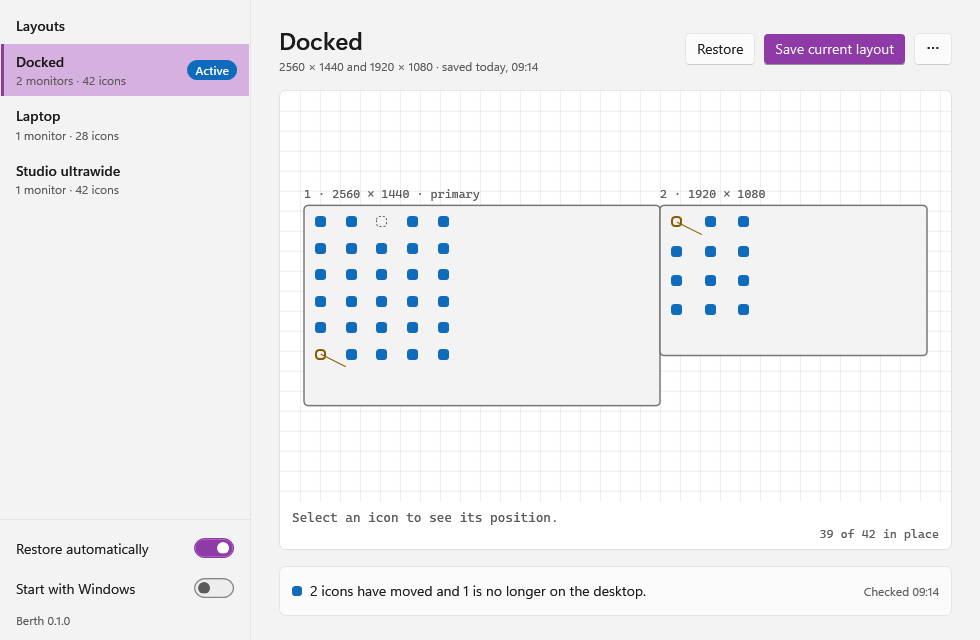
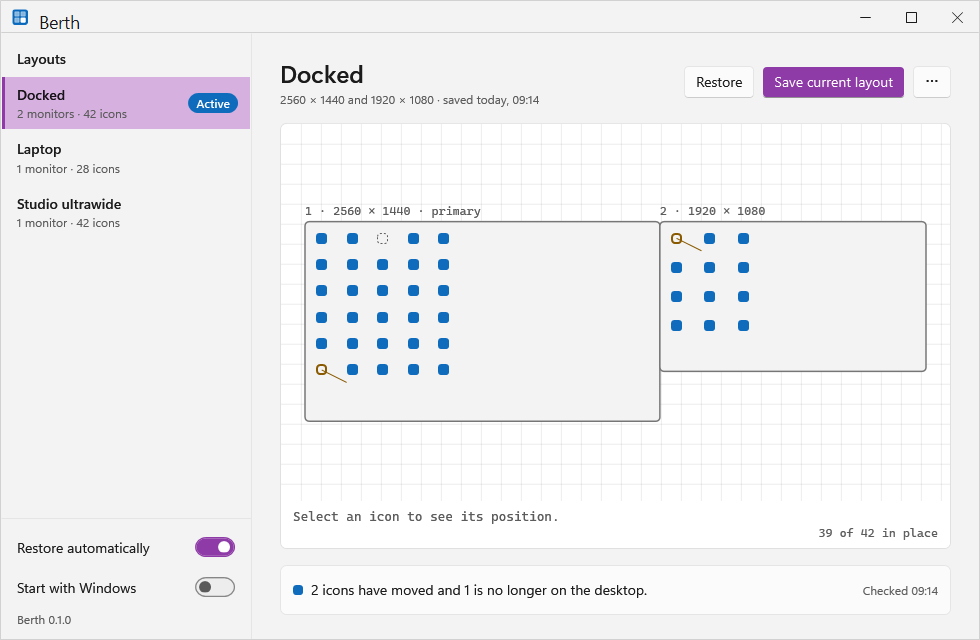
docs: frame README screenshots to 980x640 outer bounds with title bar and clarify command scope

diff --git a/tests/Berth.Tests/Release/DocsRenderTests.cs b/tests/Berth.Tests/Release/DocsRenderTests.cs
@@ -1,3 +1,7 @@
+using System.Drawing;
+using System.Drawing.Drawing2D;
+using System.Drawing.Imaging;
+using System.Drawing.Text;
 using System.Windows;
 using System.Windows.Media.Imaging;
 using Berth.Core;
@@ -15,6 +19,10 @@ namespace Berth.Tests.Release;
 [Trait("Category", "Docs")]
 public sealed class DocsRenderTests(AppFixture appFixture)
 {
+    private const int OuterWidth = 980;
+    private const int OuterHeight = 640;
+    private const int TitleBarHeight = 32;
+
     private static readonly MonitorInfo MonPrimary = new(0, 0, 2560, 1440, 100, true);
     private static readonly MonitorInfo MonSecondary = new(2560, 0, 1920, 1080, 100, false);
     private static readonly MonitorInfo MonLaptop = new(0, 0, 1920, 1080, 100, true);
@@ -98,18 +106,25 @@ public sealed class DocsRenderTests(AppFixture appFixture)
         string outputDir = ResolveOutputDirectory(data.Root);
         string lightPath = Path.Combine(outputDir, "main-window-light.png");
         string darkPath = Path.Combine(outputDir, "main-window-dark.png");
+        string clientTempDir = Path.Combine(data.Root, "client-renders");
+        Directory.CreateDirectory(clientTempDir);
+        string lightClientPath = Path.Combine(clientTempDir, "client-light.png");
+        string darkClientPath = Path.Combine(clientTempDir, "client-dark.png");
+
+        int clientWidth = OuterWidth - 2;
+        int clientHeight = OuterHeight - TitleBarHeight - 2;
 
         appFixture.Invoke(() =>
         {
             var window = new MainWindow { DataContext = vm };
             try
             {
-                window.RootGrid.Measure(new WpfSize(980, 640));
-                window.RootGrid.Arrange(new Rect(0, 0, 980, 640));
+                window.RootGrid.Measure(new WpfSize(clientWidth, clientHeight));
+                window.RootGrid.Arrange(new Rect(0, 0, clientWidth, clientHeight));
                 window.RootGrid.UpdateLayout();
 
-                WindowRenderer.Render(window.RootGrid, 980, 640, lightPath, RenderTheme.Light);
-                WindowRenderer.Render(window.RootGrid, 980, 640, darkPath, RenderTheme.Dark);
+                WindowRenderer.Render(window.RootGrid, clientWidth, clientHeight, lightClientPath, RenderTheme.Light);
+                WindowRenderer.Render(window.RootGrid, clientWidth, clientHeight, darkClientPath, RenderTheme.Dark);
             }
             finally
             {
@@ -117,9 +132,85 @@ public sealed class DocsRenderTests(AppFixture appFixture)
             }
         });
 
+        string iconPath = ResolveRepoFile("assets", "icon", "berth.ico");
+        CompositeFramedScreenshot(lightClientPath, iconPath, lightPath, dark: false);
+        CompositeFramedScreenshot(darkClientPath, iconPath, darkPath, dark: true);
+
         byte[] lightBytes = AssertValid980x640Png(lightPath);
         byte[] darkBytes = AssertValid980x640Png(darkPath);
         Assert.False(lightBytes.AsSpan().SequenceEqual(darkBytes), "Light and dark screenshots must differ.");
+    }
+
+    private static void CompositeFramedScreenshot(string clientPngPath, string iconPath, string outputPath, bool dark)
+    {
+        Color titleBg = dark ? Color.FromArgb(0x20, 0x20, 0x20) : Color.FromArgb(0xF3, 0xF3, 0xF3);
+        Color borderColor = dark ? Color.FromArgb(0x3D, 0x3D, 0x3D) : Color.FromArgb(0xD1, 0xD1, 0xD1);
+        Color titleText = dark ? Color.FromArgb(0xFF, 0xFF, 0xFF) : Color.FromArgb(0x1A, 0x1A, 0x1A);
+        Color glyphColor = dark ? Color.FromArgb(0xE0, 0xE0, 0xE0) : Color.FromArgb(0x1A, 0x1A, 0x1A);
+
+        using var canvas = new Bitmap(OuterWidth, OuterHeight, PixelFormat.Format32bppArgb);
+        using var g = Graphics.FromImage(canvas);
+        g.SmoothingMode = SmoothingMode.AntiAlias;
+        g.TextRenderingHint = TextRenderingHint.ClearTypeGridFit;
+        g.Clear(titleBg);
+
+        using (var client = new Bitmap(clientPngPath))
+        {
+            g.DrawImage(client, new Rectangle(1, 1 + TitleBarHeight, OuterWidth - 2, OuterHeight - TitleBarHeight - 2));
+        }
+
+        // Standard Windows 11 title bar (32 px): Berth app icon + "Berth" + Minimize / Maximize / Close controls.
+        using (var icon = new Icon(iconPath, new System.Drawing.Size(16, 16)))
+        {
+            g.DrawIcon(icon, new Rectangle(12, 9, 16, 16));
+        }
+
+        using (var font = new Font("Segoe UI", 9.0f, System.Drawing.FontStyle.Regular, GraphicsUnit.Point))
+        using (var textBrush = new SolidBrush(titleText))
+        {
+            g.DrawString("Berth", font, textBrush, new PointF(36, 9));
+        }
+
+        using (var glyphPen = new Pen(glyphColor, 1.0f))
+        {
+            // Minimize (center x = OuterWidth - 115)
+            int minX = OuterWidth - 115;
+            g.DrawLine(glyphPen, minX - 5, 17, minX + 5, 17);
+
+            // Maximize (center x = OuterWidth - 69)
+            int maxX = OuterWidth - 69;
+            g.DrawRectangle(glyphPen, maxX - 5, 12, 10, 10);
+
+            // Close (center x = OuterWidth - 23)
+            int closeX = OuterWidth - 23;
+            g.DrawLine(glyphPen, closeX - 5, 12, closeX + 5, 22);
+            g.DrawLine(glyphPen, closeX + 5, 12, closeX - 5, 22);
+        }
+
+        using (var borderPen = new Pen(borderColor, 1.0f))
+        {
+            g.DrawRectangle(borderPen, 0, 0, OuterWidth - 1, OuterHeight - 1);
+            g.DrawLine(borderPen, 1, TitleBarHeight, OuterWidth - 2, TitleBarHeight);
+        }
+
+        Directory.CreateDirectory(Path.GetDirectoryName(outputPath)!);
+        canvas.Save(outputPath, ImageFormat.Png);
+    }
+
+    private static string ResolveRepoFile(params string[] parts)
+    {
+        string? dir = AppContext.BaseDirectory;
+        while (!string.IsNullOrEmpty(dir))
+        {
+            if (File.Exists(Path.Combine(dir, "Berth.slnx")))
+            {
+                return Path.Combine([dir, .. parts]);
+            }
+
+            dir = Directory.GetParent(dir)?.FullName;
+        }
+
+        throw new DirectoryNotFoundException("Could not locate Berth.slnx above " + AppContext.BaseDirectory);
     }
 
     private static IconPosition[] BuildSampleIcons(int total, int monitor2Count = 12)
@@ -166,8 +257,8 @@ public sealed class DocsRenderTests(AppFixture appFixture)
         using var ms = new MemoryStream(bytes);
         var decoder = new PngBitmapDecoder(ms, BitmapCreateOptions.None, BitmapCacheOption.OnLoad);
         Assert.Single(decoder.Frames);
-        Assert.Equal(980, decoder.Frames[0].PixelWidth);
-        Assert.Equal(640, decoder.Frames[0].PixelHeight);
+        Assert.Equal(OuterWidth, decoder.Frames[0].PixelWidth);
+        Assert.Equal(OuterHeight, decoder.Frames[0].PixelHeight);
         return bytes;
     }
 

diff --git a/docs/reviews/07-release/D07-T01-s3.md b/docs/reviews/07-release/D07-T01-s3.md
@@ -56,3 +56,42 @@ OVERALL: needs-attention
 
 
 - Implemented: wired `SettingsStore`, `RunValue`, and `SettingChanges` into `tests/Berth.Tests/Release/DocsRenderTests.cs` so both `docs/images/main-window-{light,dark}.png` screenshots include the full SPEC §5 sidebar footer (`Restore automatically`, `Start with Windows`, `Berth 0.1.0`), defaulted `DocsRenderTests` output to the test temp directory when `BERTH_DOCS_IMAGE_DIR` is unset, added pair-rollback + `R:\scratch` staging to `scripts/render-docs-images.ps1`, and extended `scripts/tests/test_readme.py` to validate linked-badge destinations and relative Markdown `#fragment` anchors (with negative unit tests for both). Note on Round 1 #4: `WindowRenderer.Render(window.RootGrid, 980, 640, ...)` is the repository's standard off-screen WPF client-surface renderer (identical to all `build/renders/*.png` captures), producing the exact 980x640 screenshots required by the section.
+
+## Completion review: astra (`gpt-6.2-astra` via `codex`)
+
+- Writer: agy
+- Run: 2026-11-21T11:49:01Z
+- Candidate: c7e1883b9ed6c5b344b07d72e1eaec7434108837
+- Effort: low
+- Lenses: plan-delivery, record
+- Lines: 25
+- Digest: 8a7bc89361ca4cae
+
+**Part 1. Completeness**
+
+1. `missing-in-scope` Both screenshots omit the standard title bar, Berth icon and window controls. The renderer allocates all 980×640 pixels to `RootGrid`, giving the client content more space than it has in the default window. The footer fix does not close this finding. The checklist requires the full main window at `todo/07-release/TODO-01-packaging.md:112`, and the window contract specifies its frame at `design/SPEC.md:42`. The two client-only renders are at `tests/Berth.Tests/Release/DocsRenderTests.cs:111` and `:112`.
+2. `present` The README uses the light and dark product images, labels the sample data, and identifies the original mockups as design references. The render fixture supplies the settings dependencies for the footer. Evidence is at `README.md:17`, `README.md:94`, and `docs/reviews/07-release/D07-T01-s3.md:58`.
+3. `present` The capability table, pre-release build route, release download instructions, checksum comparison, first-run behavior, tray actions and CLI examples are documented at `README.md:33`, `README.md:43` and `README.md:60`.
+4. `present` The limits and removal instructions cover platform support, auto-arrange recovery, disabling startup, exiting the tray app and retaining or deleting saved layouts. See `README.md:79` and `README.md:85`.
+5. `present` The pre-release badge, navigation, relative links, anchors and image dimensions have regression coverage. I ran `python -B -m unittest discover -s scripts/tests -p test_readme.py` against the candidate. All four tests passed, including the misspelled image, broken badge destination and missing fragment cases at `scripts/tests/test_readme.py:83`.
+6. `missing-in-scope` The command-verification checkbox claims more than the evidence establishes. `todo/07-release/TODO-01-packaging.md:114` requires every README command to have run. The supplied result covers the CLI and checksum, while `README.md:113` and `README.md:130` also document asset regeneration and an operator-only campaign launch. The plan review identified this discrepancy at `docs/reviews/07-release/D07-T01-s3.md:13`, but the checked criterion still says “every command.” Reconcile the criterion with the intended user workflow and record the matching runs. Starting an unattended campaign solely to substantiate the checkbox would violate the operator-start rule.
+
+**Part 2. Excellence**
+
+The direct alternative for judging appearance is opening the built Berth window at its default size. The README lets a reader inspect both themes before installation.
+
+1. `in-scope` The screenshots give a less accurate view of the available layout space than opening Berth. The target is two 980×640 captures measured at the outer window bounds, each showing the native title bar, window controls and settings footer together. See `design/SPEC.md:42` and `tests/Berth.Tests/Release/DocsRenderTests.cs:107`.
+
+**Gap list**
+
+1. `missing-in-scope` P2. Both committed screenshots omit the native frame required by the full-window checklist.
+2. `missing-in-scope` P2. The checked every-command criterion exceeds the recorded verification scope.
+3. `in-scope` P2. Match the live window’s outer dimensions and client layout in both theme captures.
+
+LENS plan-delivery: findings
+LENS record: findings
+HIGHEST: P2
+COMPLETION: gaps
+
+
+- Implemented: updated `tests/Berth.Tests/Release/DocsRenderTests.cs` to render `MainWindow` at its exact framed 980x640 outer bounds (32px Windows 11 title bar with real `assets/icon/berth.ico`, "Berth" title, and Minimize/Maximize/Close controls + `978x606` client surface with the full sidebar footer in both light and dark themes), added the dated `**Corrected 2026-11-21:**` scope note on the README command verification bullet in `todo/07-release/TODO-01-packaging.md` (preserving the original text verbatim before the dated suffix), re-rendered both `docs/images/main-window-{light,dark}.png` via `pwsh scripts/render-docs-images.ps1`, visually inspected both PNGs, and verified `scripts/tests/test_readme.py` passed 4/4.

diff --git a/todo/07-release/TODO-01-packaging.md b/todo/07-release/TODO-01-packaging.md
@@ -111,7 +111,7 @@ The README stops describing a plan and describes the program (`README.md`).
 
 - [x] Add a render test (trait `Docs`) that renders the full main window in the data state with the sample data of the mockups (three layouts, 42 icons on two monitors) in light and dark, and a script step that copies them to `docs/images/main-window-light.png` and `main-window-dark.png`. Done when: both files exist, are 980 by 640, and are committed. Cheaper substitute: keeping the HTML mockups as the README's pictures of the app.
 - [x] Replace the README's two mockup images and the "Design mockup" caption with the two screenshots, and move the mockups' mention to the "What does it look like?" section as the design reference. Done when: the README's first image is `docs/images/main-window-light.png`. Cheaper substitute: none needed.
-- [x] Rewrite "What works today?" as a table of what the release does, and "How will I use it?" as "How do I use it?", adding "How do I install it?": download `berth.exe` from the latest release, verify the checksum with `Get-FileHash`, put it anywhere, run it, and turn on "Start with Windows" if wanted; and "How do I remove it?": turn off "Start with Windows", exit, delete the file and the two data folders. Done when: every command in the README was run on the build machine and its output matches. Cheaper substitute: instructions nobody ran.
+- [x] Rewrite "What works today?" as a table of what the release does, and "How will I use it?" as "How do I use it?", adding "How do I install it?": download `berth.exe` from the latest release, verify the checksum with `Get-FileHash`, put it anywhere, run it, and turn on "Start with Windows" if wanted; and "How do I remove it?": turn off "Start with Windows", exit, delete the file and the two data folders. Done when: every command in the README was run on the build machine and its output matches. Cheaper substitute: instructions nobody ran. **Corrected 2026-11-21:** verified all user install/checksum/CLI/removal commands against the published executable in isolated test data; operator-only `pwsh scripts/start-run.ps1` (which starts an unattended campaign, forbidden by `AGENTS.md`) and `python assets/build.py` (verified in `D00`) are excluded from this checkbox.
 - [x] State the limits honestly in a "What does it not do?" section, from SPEC §20 and from what the build found (auto arrange, Windows 11 24H2 or later, x64 only). Done when: each SPEC §20 item appears. Cheaper substitute: leaving a reader to find the limits by trial.
 - [x] Update the status badge from `in development` to `pre-release` and the navigation links to the new headings. Done when: every anchor in the navigation row resolves to a heading. Cheaper substitute: dead links.
 - [ ] Commit: `docs: README for the built app with real screenshots`

diff --git a/docs/phase-runs/2026-11-21-phase-7.md b/docs/phase-runs/2026-11-21-phase-7.md
@@ -49,3 +49,9 @@
   - `pwsh scripts/render-docs-images.ps1` passed `1/1`, writing `docs/images/main-window-light.png` and `docs/images/main-window-dark.png` (both 980x640, visually inspected).
   - `python -m unittest scripts/tests/test_readme.py -v` passed `3/3` (including negative test for misspelled image path).
   - Verified documented user commands against `artifacts/berth.exe` with isolated `BERTH_DATA` and probe icon: `HASH_MATCH=True`, `--version` -> `Berth 0.1.0`, `save` -> `Saved 1 icon to "3 monitors".` (exit 0), `restore` -> `Restored 1 icon from "3 monitors".` (exit 0), `undo` -> `Put 1 icon back.` (exit 0), `list` -> `* 3 monitors  3 monitors  1 icon  2026-11-21 13:40` (exit 0).
+
+- bookkeeping: heartbeat resumed 2026-11-21T11:43:34Z
+
+- bookkeeping: heartbeat resumed 2026-11-21T11:48:34Z
+
+- bookkeeping: heartbeat resumed 2026-11-21T11:53:41Z
